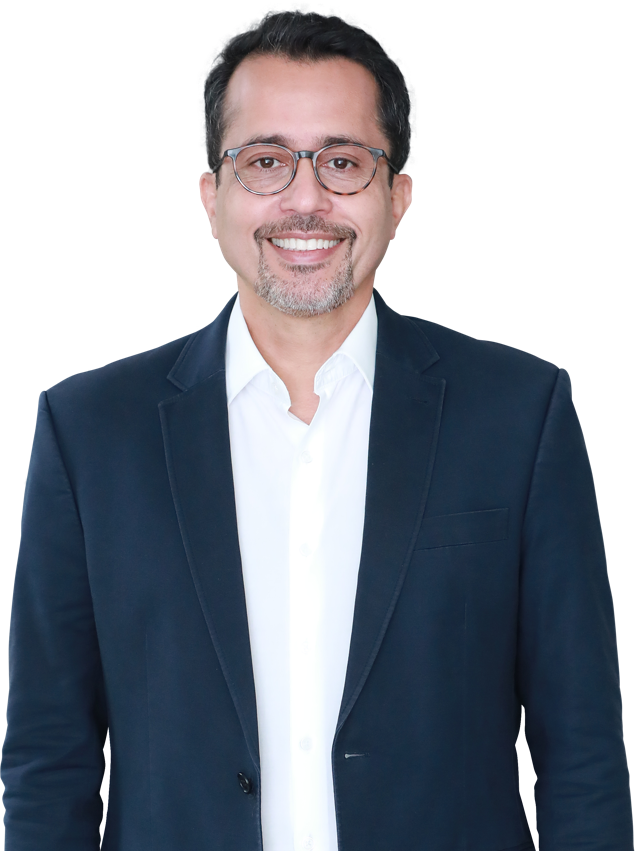
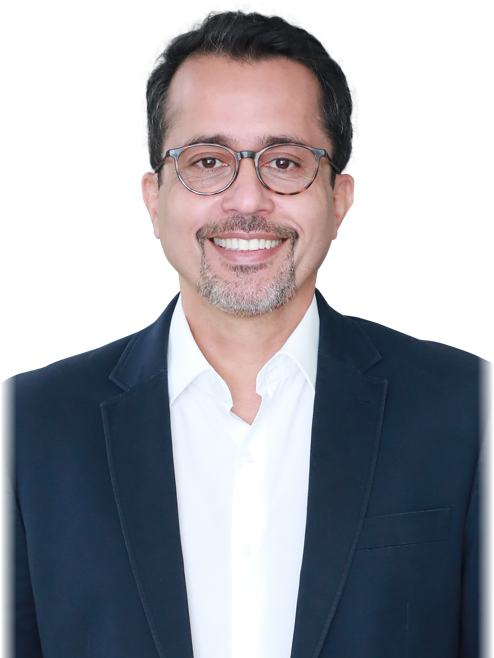
Hero: enquadramento fechado em rosto e peito
Crop 494x658 centrado na cabeça (era busto 638x851): rosto ~43% da
largura do quadro. As laterais cortam o paletó de propósito; fade de
alpha de 16px funde as bordas retas no fundo navy do hero. webp 22K.

diff --git a/index.html b/index.html
@@ -28,7 +28,7 @@
   <link rel="preload" href="public/fonts/avenir-400.woff2" as="font" type="font/woff2" crossorigin />
   <link rel="preload" href="public/assets/deputado.webp" as="image" type="image/webp" fetchpriority="high" />
 
-  <link rel="stylesheet" href="css/style.css?v=48" />
+  <link rel="stylesheet" href="css/style.css?v=49" />
   <script>document.documentElement.classList.add('js');</script>
 </head>
 <body>
@@ -92,7 +92,7 @@
         <div class="hero-photo" id="hero-photo">
           <picture>
             <source srcset="public/assets/deputado.webp" type="image/webp" />
-            <img src="public/assets/deputado.png" width="638" height="851" fetchpriority="high" decoding="async"
+            <img src="public/assets/deputado.png" width="494" height="658" fetchpriority="high" decoding="async"
                  alt="Dr. Elton de terno azul-marinho e camisa branca, sorrindo, em close do busto"
                  onerror="this.closest('.hero-photo').classList.add('no-photo'); this.remove();" />
           </picture>

diff --git a/scripts/build-assets.py b/scripts/build-assets.py
@@ -61,12 +61,20 @@ def main():
     src = os.path.join(ROOT, "assets-src/deputado-src.png")
     if os.path.exists(src):
         im = Image.open(src).convert("RGBA")
-        # Busto: trim das margens transparentes (bbox alpha do meio-corpo) e
-        # base no peito, 3:4 exato — nada do corpo e cortado pelo cover do CSS
-        # e o rosto passa a ocupar ~1/3 da altura do quadro.
-        l, t, r = 25, 22, 663
-        b = t + round((r - l) * 4 / 3)
+        # Fechado em rosto+peito, 3:4, centrado na cabeca (cx 330 na fonte).
+        # As laterais cortam o paleto de proposito; o fade de alpha abaixo
+        # funde as bordas retas no fundo navy do hero (paleto navy = invisivel).
+        l, t, r, b = 83, 22, 577, 680
         im = im.crop((l, t, r, b))
+        from PIL import ImageDraw, ImageChops
+        borda = Image.new("L", im.size, 255)
+        d = ImageDraw.Draw(borda)
+        N = 16
+        for x in range(N):
+            v = round(255 * x / N)
+            d.line([(x, 0), (x, im.height)], fill=v)
+            d.line([(im.width - 1 - x, 0), (im.width - 1 - x, im.height)], fill=v)
+        im.putalpha(ImageChops.multiply(im.getchannel("A"), borda))
         webp = os.path.join(ASSETS, "deputado.webp")
         png = os.path.join(ASSETS, "deputado.png")
         im.save(webp, "WEBP", quality=82, method=6)  # method 6 = melhor compressão
